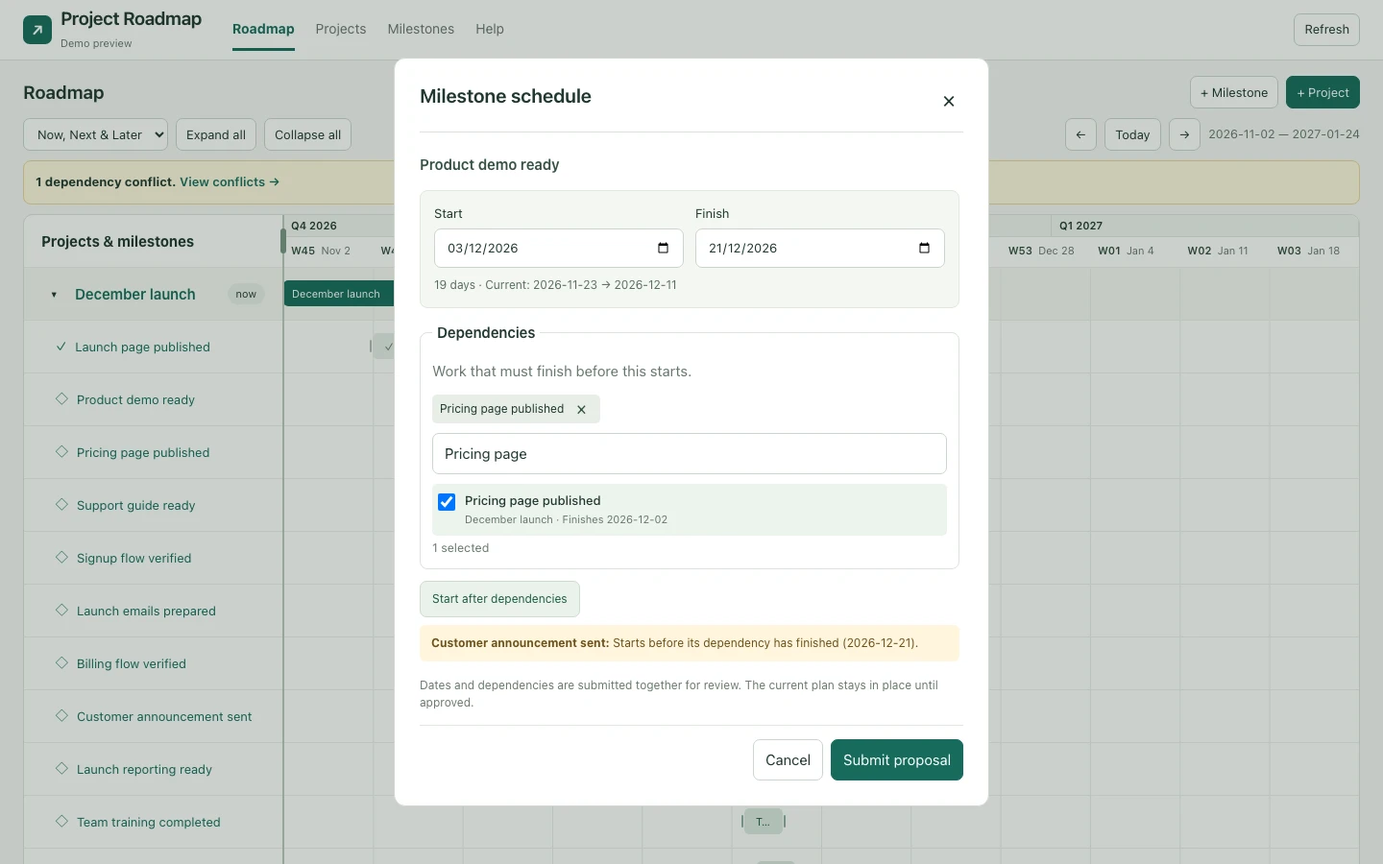
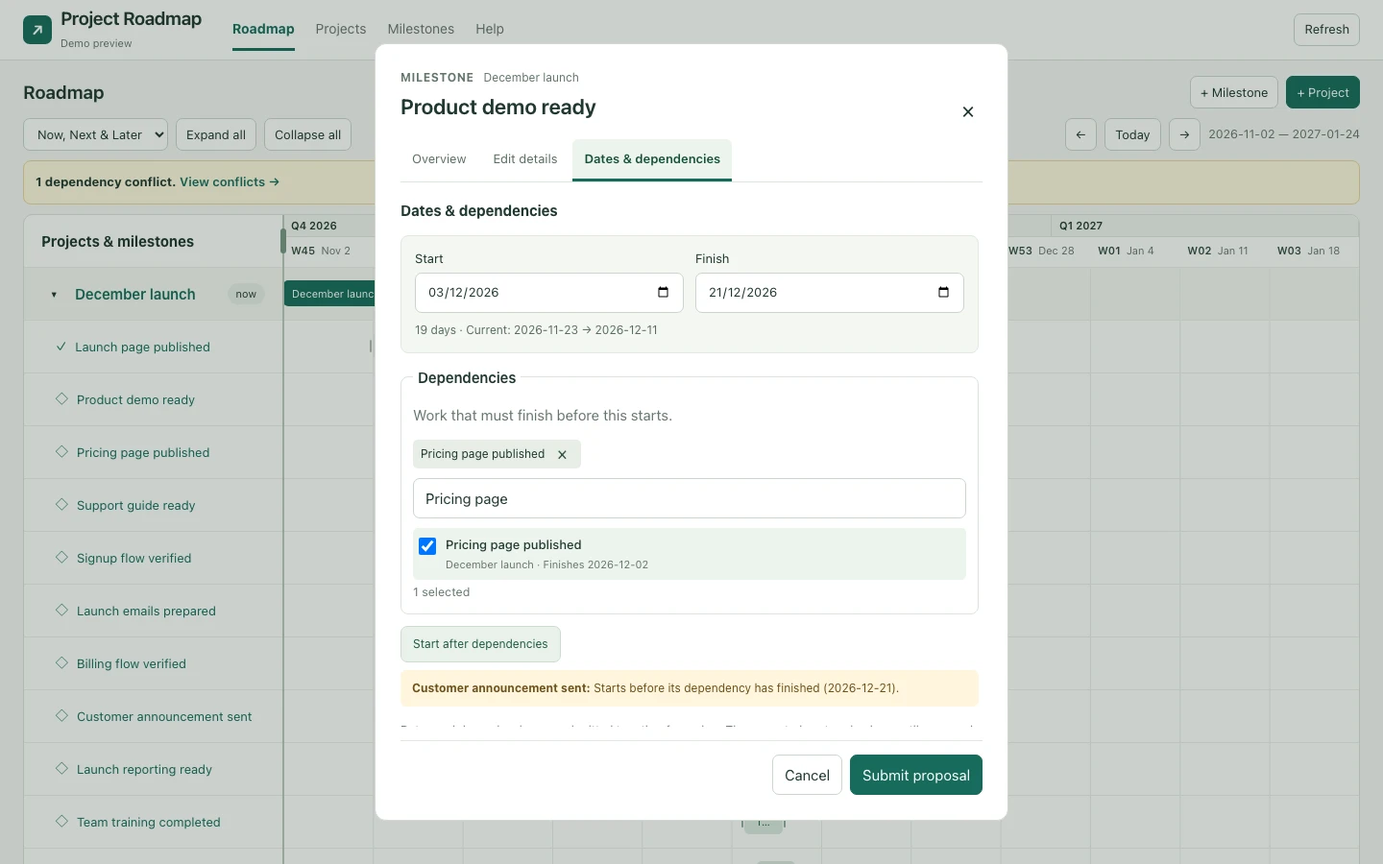
fix(project-roadmap): unify milestone popup navigation (#10)

Changed region(s): [[0.25, 0.0311, 0.75, 0.9644]]

diff --git a/templates/busa-project-roadmap/content/busa-project-roadmap-app/app/js/app.js b/templates/busa-project-roadmap/content/busa-project-roadmap-app/app/js/app.js
@@ -110,9 +110,9 @@ function bar(row, kind, first) {
     (i) => i.row.id === row.id && i.kind === "conflict",
   );
   if (kind === "milestones") {
-    const attributes = `data-drag-milestone="${e(row.id)}" data-schedule="${e(row.id)}" data-kind="milestones"`;
+    const attributes = `data-drag-milestone="${e(row.id)}" data-open="${e(row.id)}" data-kind="milestones"`;
     return `<div class="bar milestone-bar ${f.done ? "done" : ""} ${conflict ? "conflict" : ""}" style="left:${left / 84 * 100}%;width:${(right - left) / 84 * 100}%">
-      <button class="milestone-move" ${attributes} data-edge="move" aria-label="Schedule ${e(title(row))}" title="${e(title(row))}: ${e(f["start-date"])} → ${e(f["end-date"])}. Drag to move; click to edit dates and dependencies.">${f.done ? "✓ " : ""}${e(title(row))}</button>
+      <button class="milestone-move" ${attributes} data-edge="move" aria-label="Open milestone ${e(title(row))}" title="${e(title(row))}: ${e(f["start-date"])} → ${e(f["end-date"])}. Drag to move; click to open milestone.">${f.done ? "✓ " : ""}${e(title(row))}</button>
       ${offset >= 0 ? `<button class="milestone-edge start" ${attributes} data-edge="start" aria-label="Change start of ${e(title(row))}" title="Drag to change start"></button>` : ""}
       ${offset + duration <= 84 ? `<button class="milestone-edge end" ${attributes} data-edge="end" aria-label="Change finish of ${e(title(row))}" title="Drag to change finish"></button>` : ""}
     </div>`;
@@ -186,6 +186,7 @@ function dependencyEditor(kind, id, selected) {
   return `<fieldset class="dependencies"><legend>Dependencies</legend><p class="muted">Work that must finish before this starts.</p><div id="dependency-selected" aria-live="polite"></div><label class="sr-only" for="dependency-search">Find dependencies</label><input type="search" id="dependency-search" placeholder="Search ${kind}…"><div class="dependency-options">${options.map((item) => `<label class="dependency-choice" data-dependency-title="${e(title(item).toLowerCase())}"><input type="checkbox" name="depends-on" value="${e(item.id)}" data-label="${e(title(item))}" ${selected.includes(item.id) ? "checked" : ""}><span><b>${e(title(item))}</b><small>${kind === "milestones" && projectOf(item) ? e(title(projectOf(item))) + " · " : ""}${item.fields["end-date"] ? "Finishes " + e(item.fields["end-date"]) : "No finish date"}</small></span></label>`).join("")}</div><p id="dependency-empty" class="muted" ${options.length ? "hidden" : ""}>No matching ${kind}.</p><small id="dependency-count"></small></fieldset>`;
 }
 function updateDependencySelection() {
+  if (!dialog.querySelector("#dependency-selected")) return;
   const inputs = [
     ...dialog.querySelectorAll('input[name="depends-on"]:checked'),
   ];
@@ -231,17 +232,57 @@ function help() {
   <h3>When to move a project</h3><p>Move Next to Now when the team is ready to begin. When current work finishes, mark the project Done and choose the next ready project. Move work to Later if it loses priority. Review these choices together when you review the roadmap.</p>
   <p><b>Priority and dates are separate.</b> Now / Next / Later describes focus and planning confidence; start and finish dates place the work in specific weeks and quarters. The labels have no fixed number of weeks. Changing a label does not change dates or move a timeline bar.</p>
   <h3>Milestones</h3><p>A milestone is a concrete outcome within a project. “Completion criteria” describes the finished result. The owner is responsible for progress; anyone with edit access can mark it Done. There is no acceptance step. Reopen it by clearing Done in Edit milestone if work needs revisiting.</p>
-  <h3>Move and resize milestones</h3><p>Drag the middle of a milestone bar to move both dates. Drag its left or right edge to change the start or finish. Dates snap to days. Release to review the proposed dates and dependencies; Cancel or Escape leaves the plan unchanged. Click a milestone name to open its details, then choose Dates &amp; dependencies to edit its schedule. Clicking a bar opens the schedule editor directly. With a bar or edge focused, use Left/Right to propose a one-day change, or Shift + Left/Right for a week.</p><h3>Dependencies and date proposals</h3><p>A dependency must finish before the dependent work starts. Amber bars flag conflicts among loaded records. Selected dependencies are shown by name; remove them with × or search to add more. “Start after dependencies” moves the proposed dates after the latest dependency finish while keeping the duration. Warnings also identify dependent milestones affected by the proposal; their dates never move automatically. Suggested dates preserve the work's duration. Submit a date proposal for review in Busa; the current schedule stays in place until approved.</p>
+  <h3>Move and resize milestones</h3><p>Drag the middle of a milestone bar to move both dates. Drag its left or right edge to change the start or finish. Dates snap to days. Release to review the proposed dates and dependencies; Cancel or Escape leaves the plan unchanged. Click a milestone name to open its details, then choose Dates &amp; dependencies to edit its schedule. Clicking a milestone name or bar always opens Overview. Use Edit details or Dates &amp; dependencies to choose what to change. Cancel returns to Overview; Close leaves the milestone. Dragging opens Dates &amp; dependencies with a proposed schedule. With a bar or edge focused, use Left/Right to propose a one-day change, or Shift + Left/Right for a week.</p><h3>Dependencies and date proposals</h3><p>A dependency must finish before the dependent work starts. Amber bars flag conflicts among loaded records. Selected dependencies are shown by name; remove them with × or search to add more. “Start after dependencies” moves the proposed dates after the latest dependency finish while keeping the duration. Warnings also identify dependent milestones affected by the proposal; their dates never move automatically. Suggested dates preserve the work's duration. Submit a date proposal for review in Busa; the current schedule stays in place until approved.</p>
   <h3>Access and loading</h3><p>The app uses your existing Busa permissions. A normal edit is saved or submitted for review according to your access. Each load reads at most 50 records per table. Use Load more to include additional records.</p></div>`;
 }
+let initialDialogFields = "";
+let dialogSaving = false;
+const formSnapshot = () => {
+  const form = dialog.querySelector("form");
+  return form ? JSON.stringify([...new FormData(form)]) : "";
+};
 function showDialog(html) {
   dialog.className = "";
+  delete dialog.dataset.milestone;
   dialog.innerHTML = html;
-  dialog.showModal();
-  dialog.querySelector("[autofocus]")?.focus();
+  const milestone = dialog.querySelector("[data-milestone-id]");
+  if (milestone) {
+    dialog.dataset.milestone = milestone.dataset.milestoneId;
+    dialog.classList.add("milestone-dialog");
+  }
+  dialog.setAttribute("aria-labelledby", "dialog-title");
+  if (!dialog.open) dialog.showModal();
+  dialog.scrollTop = 0;
+  initialDialogFields = formSnapshot();
+  dialog.querySelector("#dialog-title")?.focus({ preventScroll: true });
 }
 const dialogHeader = (text) =>
-  `<header><h2>${e(text)}</h2><button class="close" type="button" data-close aria-label="Close">×</button></header>`;
+  `<header><h2 id="dialog-title" tabindex="-1">${e(text)}</h2><button class="close" type="button" data-close aria-label="Close">×</button></header>`;
+function milestoneHeader(row, view) {
+  return `<div class="milestone-identity"><span>Milestone</span><span>${e(projectOf(row) ? title(projectOf(row)) : "Project not loaded")}</span></div>` +
+    dialogHeader(title(row)) +
+    `<nav class="milestone-nav" aria-label="Milestone sections" data-milestone-id="${e(row.id)}">${[["overview", "Overview"], ["edit", "Edit details"], ["schedule", "Dates & dependencies"]].map(([key, label]) => `<button type="button" data-milestone-view="${key}" ${key === view ? 'aria-current="page"' : ""}>${label}</button>`).join("")}</nav>`;
+}
+function milestoneNavigate(view, id = dialog.dataset.milestone) {
+  if (view === "edit") edit("milestones", id);
+  else if (view === "schedule") schedule("milestones", id);
+  else milestoneDetail(id);
+}
+function leaveDialog(action) {
+  if (dialogSaving || state.busy) return;
+  if (dialog.dataset.milestone && formSnapshot() !== initialDialogFields) {
+    dialog.querySelector(".discard-changes")?.remove();
+    const notice = document.createElement("div");
+    notice.className = "discard-changes";
+    notice.setAttribute("role", "alert");
+    notice.innerHTML = '<b>Unsaved changes</b><p>Discard your changes to leave this section?</p><div class="actions"><button type="button" data-keep-editing>Keep editing</button><button type="button" data-discard-changes>Discard changes</button></div>';
+    dialog.querySelector(".milestone-nav").after(notice);
+    notice.querySelector("[data-keep-editing]").onclick = () => { notice.remove(); dialog.querySelector("input, textarea, select")?.focus(); };
+    notice.querySelector("[data-discard-changes]").onclick = action;
+    notice.querySelector("button").focus();
+  } else action();
+}
+dialog.addEventListener("cancel", event => { event.preventDefault(); leaveDialog(() => dialog.close()); });
 function field(label, name, value = "", type = "text") {
   return `<label>${label}<input name="${name}" type="${type}" value="${e(value)}" ${name === "title" ? "required autofocus" : ""}></label>`;
 }
@@ -257,23 +298,24 @@ function edit(kind, id) {
       )
       .join("");
   showDialog(
-    dialogHeader(
+    (row && !isProject ? milestoneHeader(row, "edit") : dialogHeader(
       row
         ? "Edit " + (isProject ? "project" : "milestone")
         : "New " + (isProject ? "project" : "milestone"),
-    ) +
-      `<form id="edit-form">${field("Name", "title", f.title)}${!isProject ? `<label>Project<select name="project" required>${[...state.projects, ...refs(f.project).filter((ref) => !state.projects.some((p) => p.id === ref)).map((ref) => ({ id: ref, fields: { title: "Project not loaded" } }))].map((p) => `<option value="${e(p.id)}" ${refs(f.project).includes(p.id) || (!row && state.project === p.id) ? "selected" : ""}>${e(title(p))}</option>`).join("")}</select></label>` : ""}<label>${isProject ? "Purpose, risks and decisions" : "Completion criteria"}<textarea name="${isProject ? "brief" : "description"}">${e(f[isProject ? "brief" : "description"] || "")}</textarea></label>${field("Responsible person", "owner", f.owner)}${isProject ? `<div class="form-grid"><label>Horizon<select name="lane">${options(["now", "next", "later"], f.lane || "later")}</select></label><label>Status<select name="status">${options(["planned", "active", "paused", "done"], f.status || "planned")}</select></label></div>` : `<label class="checkbox"><input name="done" type="checkbox" ${f.done ? "checked" : ""}>Done — no acceptance step</label>`}${!row ? `<div class="form-grid">${field("Planned start", "start-date", "", "date")}${field("Planned finish", "end-date", "", "date")}</div>` : '<p class="muted">Use “Dates & dependencies” to review schedule changes together.</p>'}${dependencyEditor(kind, id, refs(f["depends-on"]))}<div class="error" role="alert"></div><div class="form-footer"><button type="button" data-close>Cancel</button><button class="primary" type="submit">${row ? "Save changes" : "Create " + (isProject ? "project" : "milestone")}</button></div></form>`,
+    )) +
+      `<form id="edit-form"><div class="edit-fields">${row && !isProject ? '<h3 class="section-title">Edit details</h3>' : ""}${field("Name", "title", f.title)}${!isProject ? `<label>Project<select name="project" required>${[...state.projects, ...refs(f.project).filter((ref) => !state.projects.some((p) => p.id === ref)).map((ref) => ({ id: ref, fields: { title: "Project not loaded" } }))].map((p) => `<option value="${e(p.id)}" ${refs(f.project).includes(p.id) || (!row && state.project === p.id) ? "selected" : ""}>${e(title(p))}</option>`).join("")}</select></label>` : ""}<label>${isProject ? "Purpose, risks and decisions" : "Completion criteria"}<textarea name="${isProject ? "brief" : "description"}">${e(f[isProject ? "brief" : "description"] || "")}</textarea></label>${field("Responsible person", "owner", f.owner)}${isProject ? `<div class="form-grid"><label>Horizon<select name="lane">${options(["now", "next", "later"], f.lane || "later")}</select></label><label>Status<select name="status">${options(["planned", "active", "paused", "done"], f.status || "planned")}</select></label></div>` : `<label class="checkbox"><input name="done" type="checkbox" ${f.done ? "checked" : ""}>Done — no acceptance step</label>`}${!row ? `<div class="form-grid">${field("Planned start", "start-date", "", "date")}${field("Planned finish", "end-date", "", "date")}</div>` : ""}${isProject || !row ? dependencyEditor(kind, id, refs(f["depends-on"])) : ""}<div class="error" role="alert"></div></div><div class="form-footer"><button type="button" ${row && !isProject ? 'data-milestone-cancel' : 'data-close'}>Cancel</button><button class="primary" type="submit">${row ? "Save changes" : "Create " + (isProject ? "project" : "milestone")}</button></div></form>`,
   );
   updateDependencySelection();
   const key = crypto.randomUUID();
   dialog.querySelector("form").onsubmit = async (event) => {
     event.preventDefault();
+    if (dialogSaving) return;
     const form = event.target,
       values = new FormData(form),
       fields = Object.fromEntries(values);
     fields.title = String(fields.title).trim();
     if (!fields.title) return;
-    fields["depends-on"] = values.getAll("depends-on");
+    if (isProject || !row) fields["depends-on"] = values.getAll("depends-on");
     if (!isProject) fields.done = values.has("done");
     if (!row) {
       try {
@@ -302,27 +344,30 @@ function edit(kind, id) {
     await write(form, () => provider.save(kind, row, fields, key));
   };
 }
-function milestoneDetail(id) {
+function milestoneDetail(id, message = "") {
   const m = state.milestones.find((m) => m.id === id);
+  if (!m) return;
   showDialog(
-    dialogHeader(title(m)) +
-      `<p class="muted">${e(projectOf(m) ? title(projectOf(m)) : "Project not loaded")}</p><h3>Dependencies</h3>${dependencySummary(m)}<h3>Completion criteria</h3><p class="definition">${e(m.fields.description || "Describe the finished result.")}</p><p><b>Responsible:</b> ${e(m.fields.owner || "Unassigned")}</p><p><b>Dates:</b> ${e(m.fields["start-date"] || "Not set")} → ${e(m.fields["end-date"] || "Not set")}</p><p>${m.fields.done ? "✓ Done" : "In progress"}</p><div class="actions"><button data-edit="${e(id)}" data-kind="milestones">Edit milestone</button><button data-schedule="${e(id)}" data-kind="milestones">Dates & dependencies</button>${!m.fields.done ? `<button class="primary" data-done="${e(id)}">Mark done</button>` : ""}</div>`,
+    milestoneHeader(m, "overview") +
+    `<div class="milestone-overview"><h3 class="section-title">Overview</h3>${message ? `<p class="milestone-feedback" role="status">${e(message)}</p>` : ""}<div class="milestone-facts"><div><span>Status</span><b>${m.fields.done ? "Done" : "In progress"}</b></div><div><span>Responsible person</span><b>${e(m.fields.owner || "Unassigned")}</b></div><div><span>Start</span><b>${e(m.fields["start-date"] || "Not set")}</b></div><div><span>Finish</span><b>${e(m.fields["end-date"] || "Not set")}</b></div></div><h3>Completion criteria</h3><p class="definition">${e(m.fields.description || "No completion criteria set.")}</p><h3>Dependencies</h3>${dependencySummary(m)}</div><div class="form-footer"><button type="button" data-close>Close</button>${!m.fields.done ? `<button class="primary" data-done="${e(id)}">Mark done</button>` : ""}</div>`,
   );
 }
 function schedule(kind, id, suggestion) {
   const row = state[kind].find((r) => r.id === id);
   if (!row) return;
   showDialog(
-    dialogHeader(kind === "milestones" ? "Milestone schedule" : "Project schedule") +
-    `<p class="schedule-title">${e(title(row))}</p><form id="schedule-form"><div class="schedule-fields">
+    (kind === "milestones" ? milestoneHeader(row, "schedule") : dialogHeader("Project schedule") + `<p class="schedule-title">${e(title(row))}</p>`) +
+    `<form id="schedule-form"><div class="schedule-fields">
+    <h3 class="section-title">Dates &amp; dependencies</h3>${suggestion ? '<p class="schedule-origin">Review the proposed dates below. Nothing has been saved.</p>' : ""}
     <div class="schedule-dates"><div class="form-grid">${field("Start", "start-date", suggestion?.start || row.fields["start-date"] || "", "date")}${field("Finish", "end-date", suggestion?.end || row.fields["end-date"] || "", "date")}</div><div class="schedule-date-summary" aria-live="polite"></div></div>
     ${dependencyEditor(kind, id, refs(row.fields["depends-on"]))}
     <div class="schedule-checks" aria-live="polite"></div>
     <div class="error" role="alert"></div>
     <p class="review-note">Dates and dependencies are submitted together for review. The current plan stays in place until approved.</p></div>
-    <div class="form-footer"><button type="button" data-close>Cancel</button><button class="primary" type="submit">Submit proposal</button></div></form>`,
+    <div class="form-footer"><button type="button" ${kind === "milestones" ? "data-milestone-cancel" : "data-close"}>Cancel</button><button class="primary" type="submit">Submit proposal</button></div></form>`,
   );
   dialog.classList.add("schedule-dialog");
+  if (suggestion) initialDialogFields = "";
   const form = dialog.querySelector("form");
   const fields = () => {
     const data = new FormData(form);
@@ -356,6 +401,7 @@ function schedule(kind, id, suggestion) {
   form.addEventListener("change", update);
   form.onsubmit = async (event) => {
     event.preventDefault();
+    if (dialogSaving) return;
     const values = fields();
     try {
       validateDates(values["start-date"], values["end-date"]);
@@ -383,13 +429,13 @@ function conflictsDialog() {
   );
 }
 async function write(form, operation, scheduleProposal = false) {
-  const button = form.querySelector('[type="submit"],button.primary');
-  if (button) button.disabled = true;
+  dialogSaving = true;
+  const buttons = [...dialog.querySelectorAll("button:not(:disabled)")];
+  buttons.forEach(button => { button.disabled = true; });
   try {
+    const milestoneId = dialog.dataset.milestone;
     const outcome = await operation();
-    dialog.close();
-    notify(
-      airAppWriteMessage(
+    const message = airAppWriteMessage(
         outcome,
         scheduleProposal
           ? {
@@ -400,27 +446,31 @@ async function write(form, operation, scheduleProposal = false) {
               },
             }
           : {},
-      ),
-    );
+      );
     await load();
     render();
+    if (milestoneId) milestoneDetail(milestoneId, message);
+    else { dialog.close(); notify(message); }
   } catch (error) {
     const target = form.querySelector(".error");
     if (target) target.textContent = error.message;
     else notify(error.message);
   } finally {
-    if (button) button.disabled = false;
+    dialogSaving = false;
+    buttons.forEach(button => { button.disabled = false; });
   }
 }
 async function markDone(id) {
   if (state.busy) return;
   state.busy = true;
   try {
+    const inMilestone = dialog.open && dialog.dataset.milestone === id;
     const row = state.milestones.find((m) => m.id === id);
     const outcome = await provider.save("milestones", row, { done: true });
     dialog.close();
-    notify(airAppWriteMessage(outcome));
     await load();
+    if (inMilestone) milestoneDetail(id, airAppWriteMessage(outcome));
+    else notify(airAppWriteMessage(outcome));
   } catch (error) {
     notify(error.message);
   } finally {
@@ -430,7 +480,7 @@ async function markDone(id) {
 }
 async function click(event) {
   const b = event.target.closest("button");
-  if (!b || b.disabled) return;
+  if (!b || b.disabled || ((dialogSaving || state.busy) && dialog.contains(b))) return;
   if (b.dataset.removeDependency) {
     const input = [...dialog.querySelectorAll('input[name="depends-on"]')].find((input) => input.value === b.dataset.removeDependency);
     if (input) {
@@ -440,8 +490,16 @@ async function click(event) {
     }
     return;
   }
+  if (b.dataset.milestoneView) {
+    if (b.getAttribute("aria-current") !== "page") leaveDialog(() => milestoneNavigate(b.dataset.milestoneView));
+    return;
+  }
+  if (b.hasAttribute("data-milestone-cancel")) {
+    milestoneDetail(dialog.dataset.milestone);
+    return;
+  }
   if (b.hasAttribute("data-close")) {
-    dialog.close();
+    leaveDialog(() => dialog.close());
     return;
   }
   if (
@@ -475,17 +533,15 @@ async function click(event) {
     if (dialog.open) dialog.close();
     edit(b.dataset.new);
   } else if (b.dataset.edit) {
-    if (dialog.open) dialog.close();
     edit(b.dataset.kind, b.dataset.edit);
   } else if (b.dataset.open) {
-    if (dialog.open) dialog.close();
     if (b.dataset.kind === "projects") {
+      if (dialog.open) dialog.close();
       state.screen = "projects";
       state.project = b.dataset.open;
       render();
     } else milestoneDetail(b.dataset.open);
   } else if (b.dataset.schedule) {
-    if (dialog.open) dialog.close();
     schedule(b.dataset.kind, b.dataset.schedule);
   } else if (b.dataset.done) {
     await markDone(b.dataset.done);

diff --git a/templates/busa-project-roadmap/content/busa-project-roadmap-app/app/roadmap.css b/templates/busa-project-roadmap/content/busa-project-roadmap-app/app/roadmap.css
@@ -800,3 +800,37 @@ dialog.schedule-dialog[open] { display: flex; flex-direction: column; overflow: 
   .schedule-dialog .schedule-title { margin-bottom: 12px; }
   .schedule-dates input { padding: 8px 5px; }
 }
+
+/* Keep milestone identity and navigation visible while each section scrolls. */
+dialog.milestone-dialog[open] { display: flex; flex-direction: column; overflow: hidden; width: min(660px, calc(100% - 30px)); }
+.milestone-identity { display: flex; gap: 10px; color: #62756a; font-size: 12px; margin-bottom: 8px; flex-shrink: 0; }
+.milestone-identity span:first-child { font-weight: 700; text-transform: uppercase; letter-spacing: .05em; }
+.milestone-identity span:last-child { overflow: hidden; text-overflow: ellipsis; white-space: nowrap; }
+.milestone-dialog header { margin: 0; border: 0; padding-bottom: 12px; flex-shrink: 0; gap: 12px; align-items: flex-start; }
+.milestone-dialog h2 { margin: 0; font-size: 22px; line-height: 1.25; overflow-wrap: anywhere; }
+#dialog-title:focus { outline: none; }
+.milestone-dialog .close { flex-shrink: 0; }
+.milestone-nav { display: flex; gap: 4px; border-bottom: 1px solid #dce5dc; margin: 0 0 18px; flex-shrink: 0; }
+.milestone-nav button { border: 0; border-radius: 6px 6px 0 0; background: transparent; color: #596d60; font-size: 13px; padding: 11px 12px; border-bottom: 3px solid transparent; }
+.milestone-nav button[aria-current="page"] { background: #edf4ee; border-bottom-color: #176b5b; color: #174f37; font-weight: 600; }
+.milestone-nav button:hover { background: #f0f5ef; }
+.milestone-nav button:focus-visible { outline: 2px solid #176b5b; outline-offset: -3px; }
+.milestone-dialog .section-title { margin: 0 0 14px; font-size: 15px; }
+.milestone-overview, .milestone-dialog .edit-fields { min-height: 0; overflow-y: auto; padding-right: 4px; }
+.milestone-dialog #edit-form { display: flex; flex-direction: column; min-height: 0; }
+.milestone-dialog .form-footer { flex-shrink: 0; border-top: 1px solid #e1e7df; padding-top: 14px; margin-top: 16px; }
+.milestone-facts { display: grid; grid-template-columns: minmax(0, 1fr) minmax(0, 1fr); gap: 18px 24px; padding: 16px; background: #f3f7f2; border-radius: 8px; }
+.milestone-facts span { display: block; color: #66766b; font-size: 12px; margin-bottom: 5px; }
+.milestone-facts b { font-size: 14px; font-weight: 500; overflow-wrap: anywhere; }
+.milestone-overview > h3:not(.section-title) { font-size: 13px; margin: 22px 0 8px; }
+.milestone-feedback { background: #edf4ee; color: #174f37; border-radius: 6px; padding: 12px; font-size: 13px; }
+.schedule-origin { margin: 0 0 14px; color: #596d60; font-size: 13px; }
+.discard-changes { flex-shrink: 0; background: #fff5dc; color: #6b501c; padding: 12px; border-radius: 8px; margin-bottom: 14px; font-size: 13px; }
+.discard-changes p { margin: 5px 0 10px; }
+@media (max-width: 700px) {
+  dialog.milestone-dialog { padding: 18px; max-height: 94dvh; }
+  .milestone-dialog h2 { font-size: 19px; }
+  .milestone-nav { gap: 0; margin-bottom: 14px; }
+  .milestone-nav button { flex: 1; font-size: 12px; padding: 10px 6px; }
+  .milestone-facts { gap: 14px; padding: 12px; }
+}

diff --git a/templates/busa-project-roadmap/content/busa-project-roadmap-app/README.md b/templates/busa-project-roadmap/content/busa-project-roadmap-app/README.md
@@ -37,7 +37,7 @@ ambiguous resource ownership is an explicit setup error.
 
 Drag a milestone bar to move its full interval; drag either edge to adjust its start
 or finish. Release reviews the dates and dependencies together. Escape cancels the
-preview. Click a milestone name to open its details, then choose **Dates & dependencies**. Clicking a bar opens the schedule editor directly, and arrow keys
+preview. Clicking any milestone name or bar opens **Overview**. Use the persistent **Edit details** and **Dates & dependencies** navigation to choose what to change. Cancel returns to Overview; Close exits. Unsaved edits are protected when navigating, and saves return to Overview with a result message. Arrow keys
 offer a keyboard alternative (Shift changes the step to a week).
 
 Dependency chips show selected names with removal controls. Search adds prerequisites.
@@ -47,5 +47,6 @@ proposals preserve canonical records until reviewed.
 
 Run `npm run test:scheduling` against the preview to exercise mouse, touch, keyboard,
 resizing, cancellation, dependency edits, cycle prevention and combined review submission.
+Run `npm run test:popup` for consistent entry, section navigation, unsaved-change protection, save feedback and mobile layout.
 After updating an installed AirApp, use Busa's Stop then Run controls to ensure the
 new source is loaded, including on server versions with the Restart reattachment bug.

diff --git a/templates/busa-project-roadmap/SKILL.md b/templates/busa-project-roadmap/SKILL.md
@@ -90,7 +90,7 @@ workflow data belongs to the two native Bases.
 Drag the middle of a milestone bar to move its dates, or drag an end to resize
 the interval. Changes snap to calendar days. Release opens the schedule editor;
 nothing is written until Submit proposal. Escape or Cancel discards the preview.
-Click a milestone name to open its details, then choose **Dates & dependencies**. Clicking a bar opens the schedule editor directly. Arrow keys move a focused
+Clicking any milestone name or bar opens **Overview**. The same popup keeps the milestone name and project visible across **Overview**, **Edit details**, and **Dates & dependencies**. Cancel returns to Overview; Close exits the popup. Unsaved changes require an explicit discard before navigation. Save or Submit proposal returns to Overview with the result. Arrow keys move a focused
 bar or edge by one day; Shift changes the step to a week.
 
 The schedule editor shows start, finish, duration and selected dependency names.
